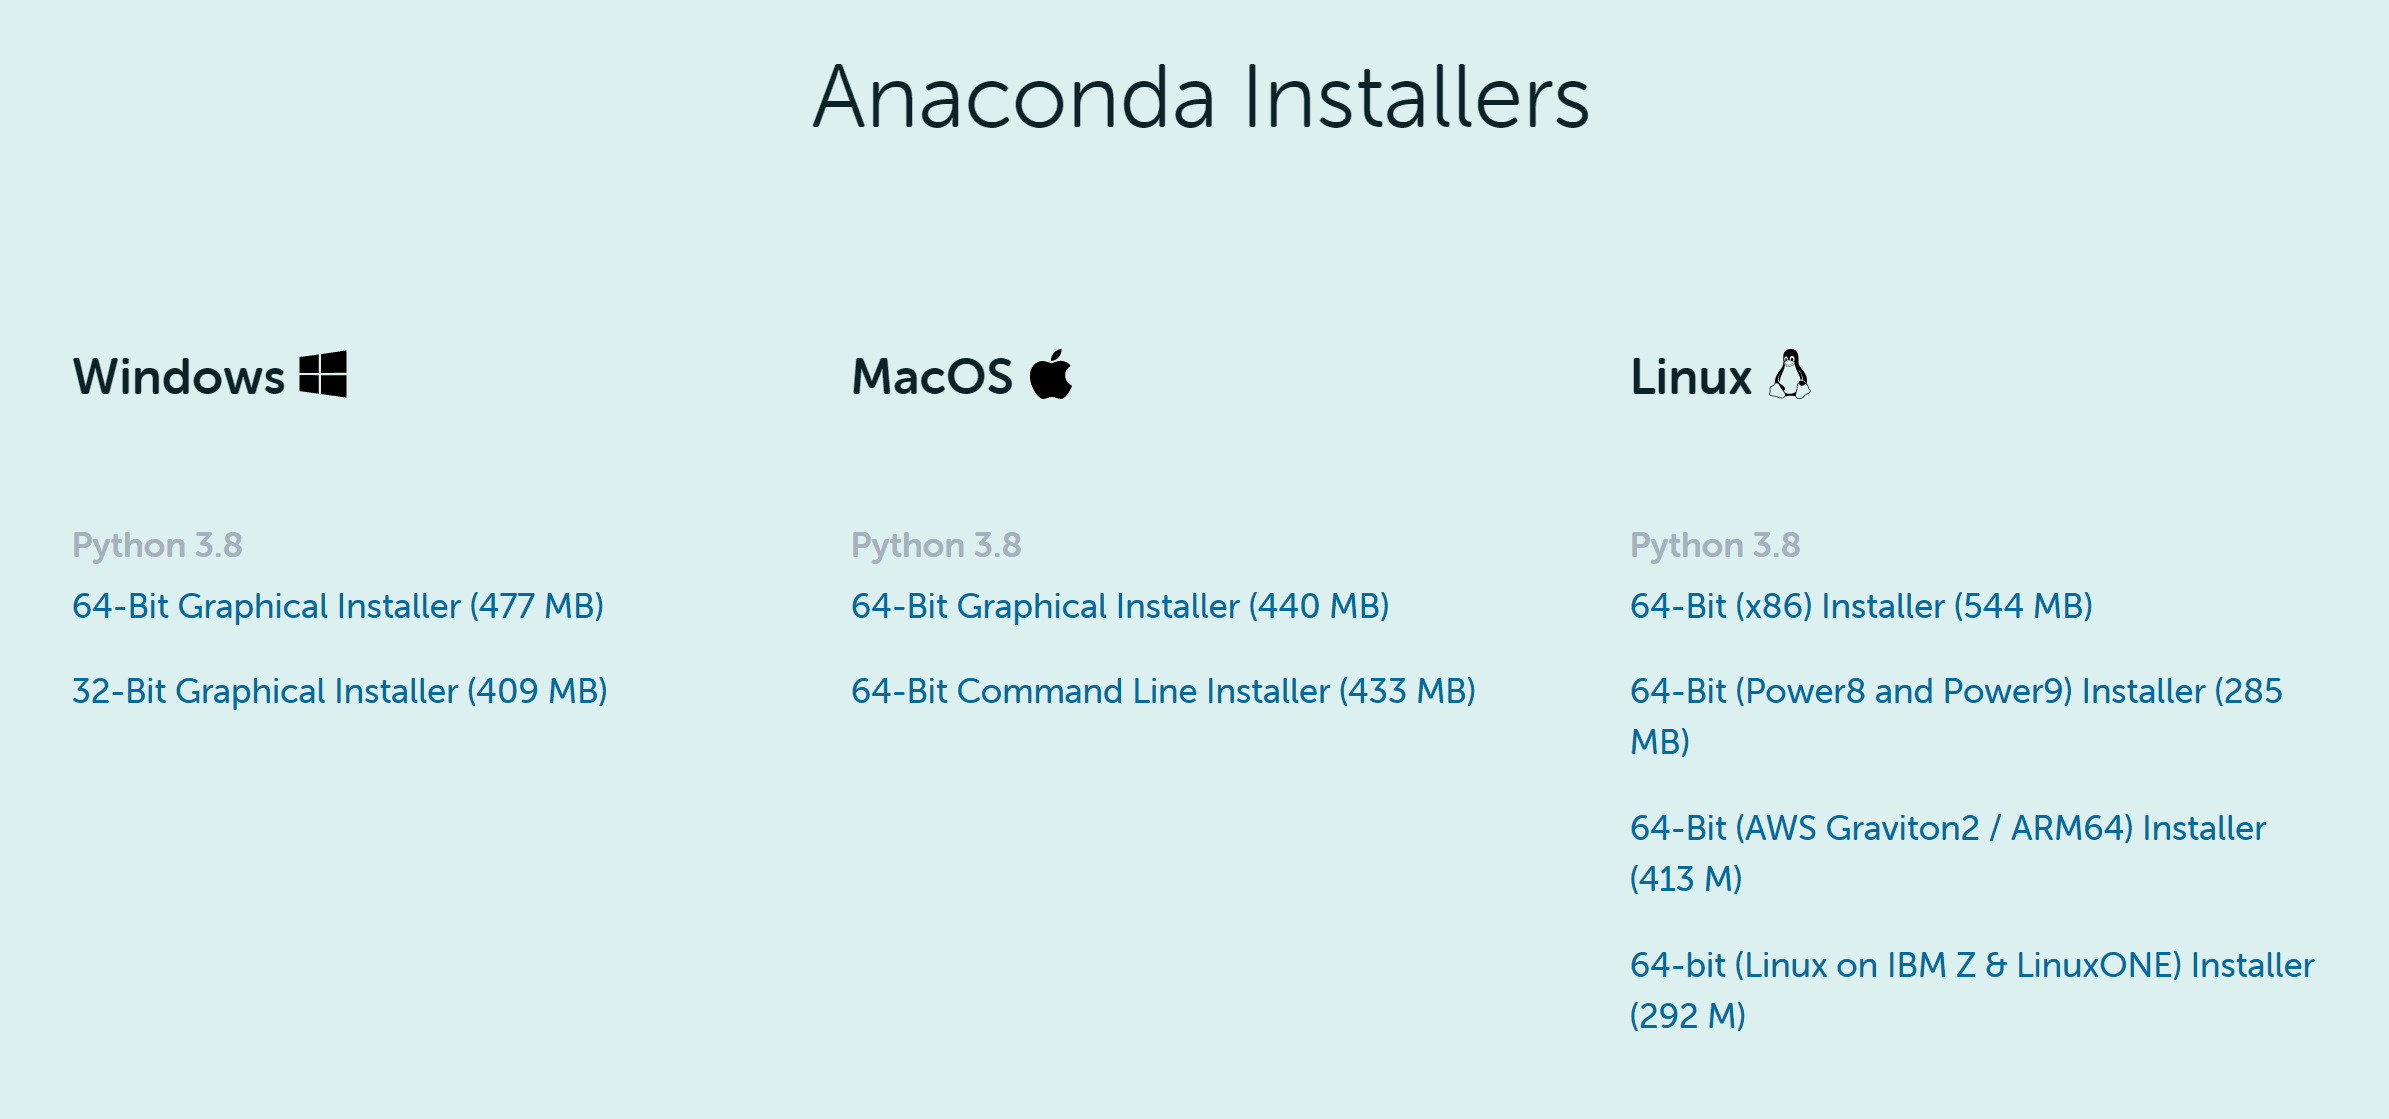
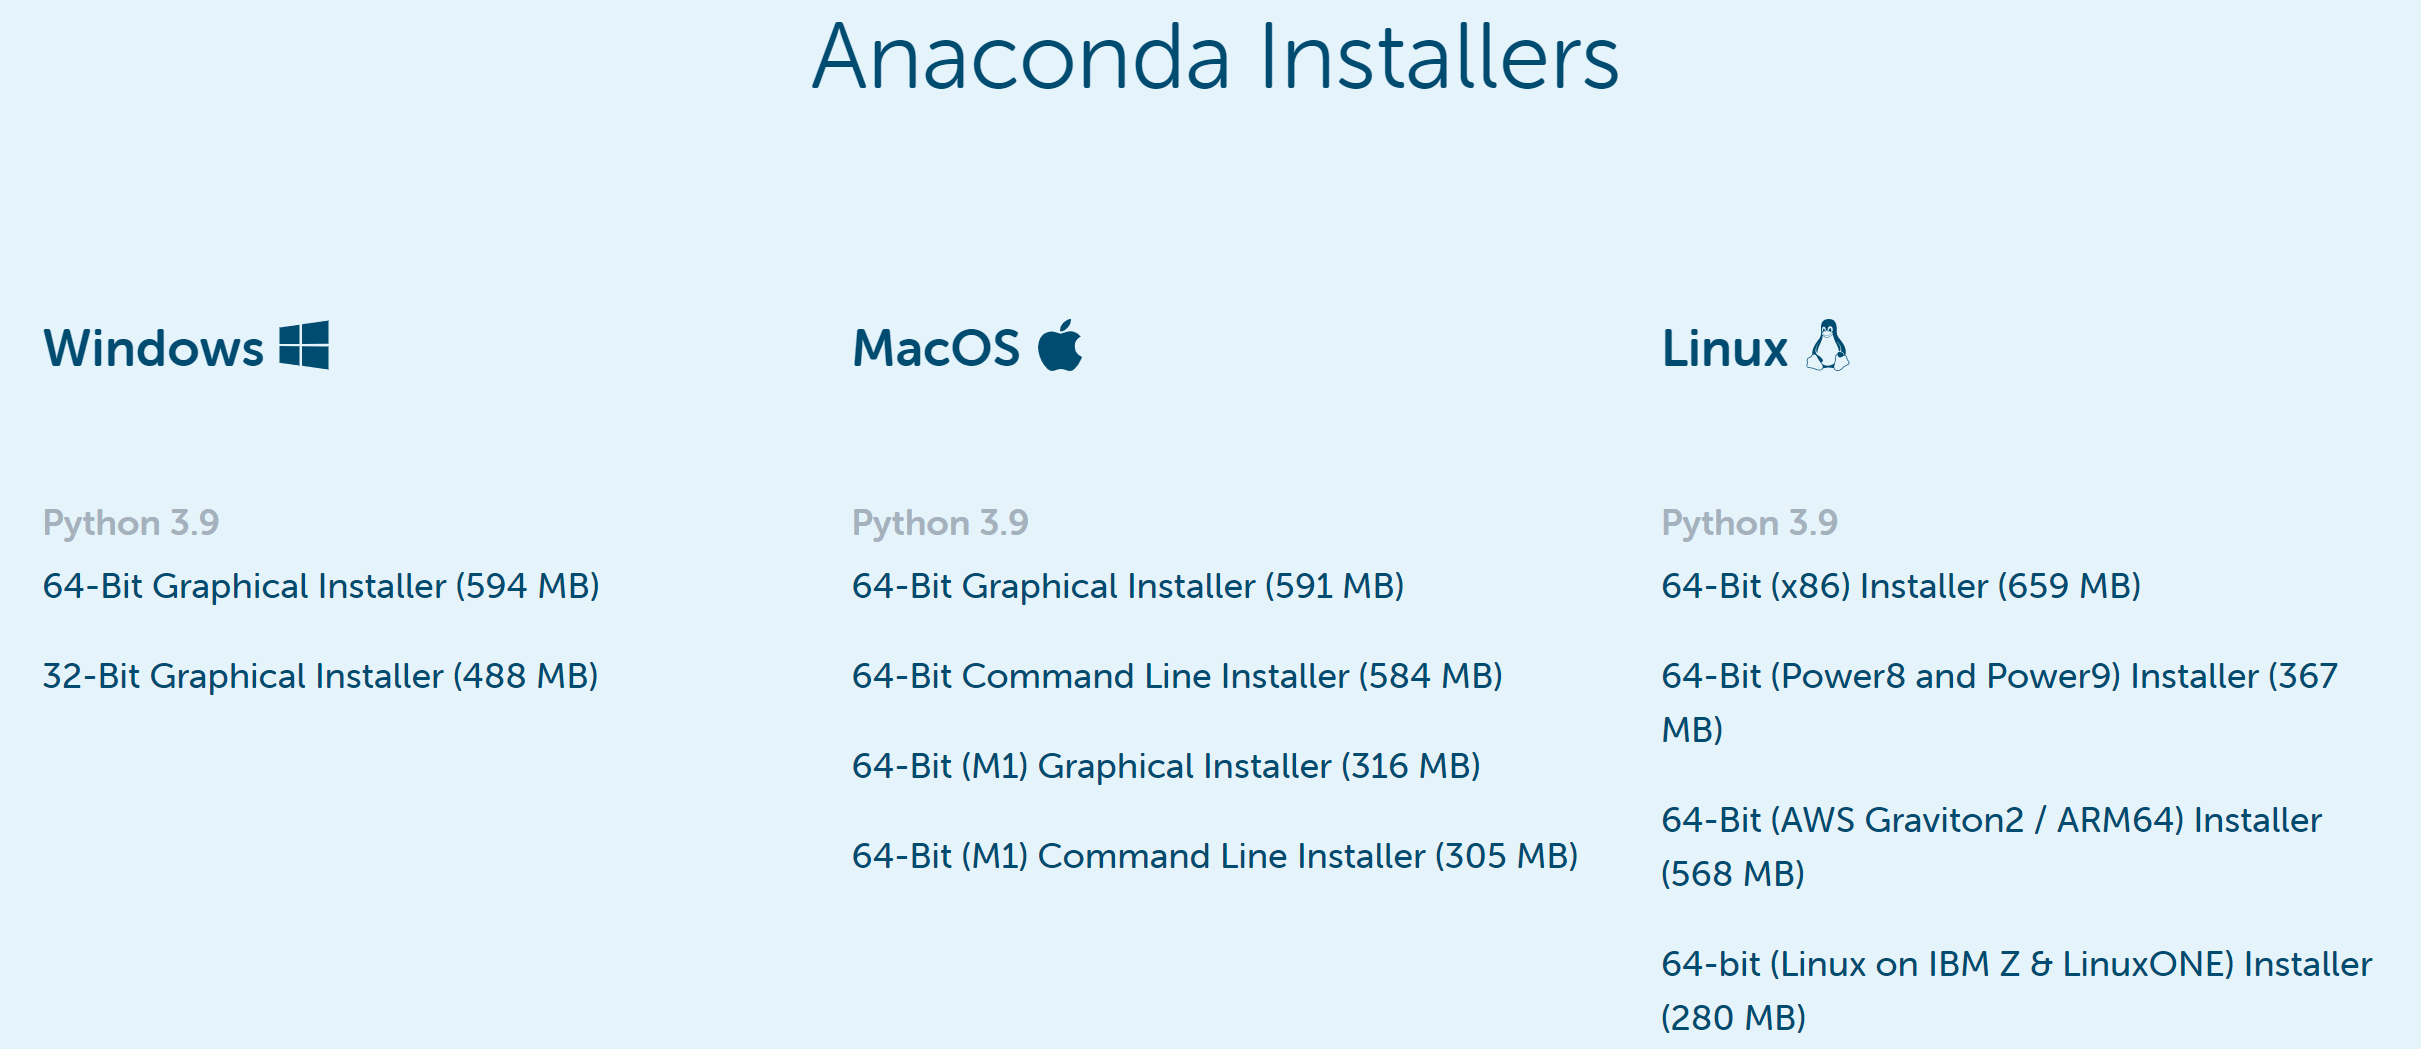
Updated anaconda download image.

diff --git a/anaconda-install.md b/anaconda-install.md
@@ -11,7 +11,7 @@ You will see something similar to the screenshot below.
 
 Download the installer that matches your operating system.
 
-**Mac users**: For most people the *64-Bit Graphical Installer* might be the easier option.
+**Mac users**: For most people the *Graphical Installer* might be the easier option.
 
 **Windows users**: If you are not sure whether your system is 64-bit (most likely) or 32-bit (uncommon), 
 go to the search bar (the magnifying glass 🔎 in the lower left corner), 
